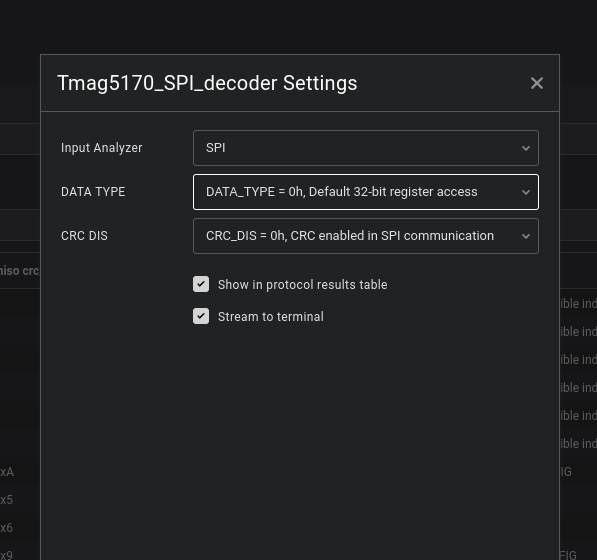
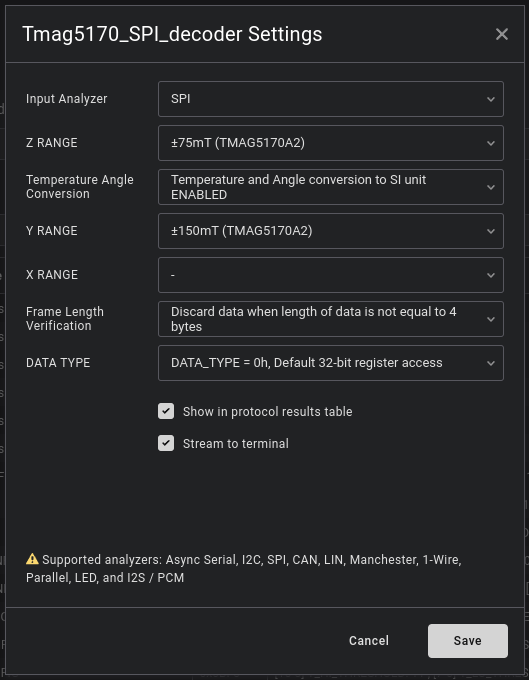
Update readme and images

diff --git a/README.md b/README.md
@@ -13,7 +13,7 @@
 - Frame_length_verification - Discard data when length of data is not equal to 4 bytes
 - Frame_length_verification - Try to decode next frames when length is at least 4 bytes - If chipselect will be held for multiple frames all data will be decoded [option not tested due to lack of data]
 - X_RANGE/Y_RANGE/Z_RANGE - select proper range if you want to decode magnetic field to mT. Only static configuration handled.
-- Temperature_Angle_Conversion - ENABLED or DISABLED
+- Temperature_Angle_Conversion - conversion of temp to SI units ENABLED or DISABLED
 3. Conversion to uint or int, depending on type of values used by tmag5170:
 - Magnetic fields measurements are converted into raw data int values, currently module do not perform automatic conversion into SI units - mili teslas
 - Angle measurements are converted into raw data uint values without distinction on decimal and fractional part, currently module do not perform automatic conversion into SI units - degrees
